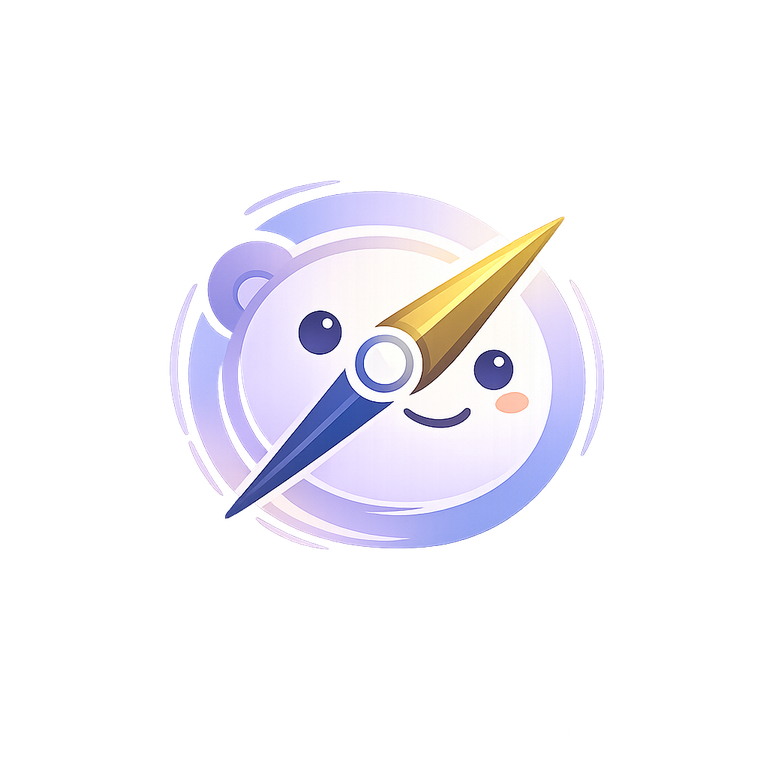
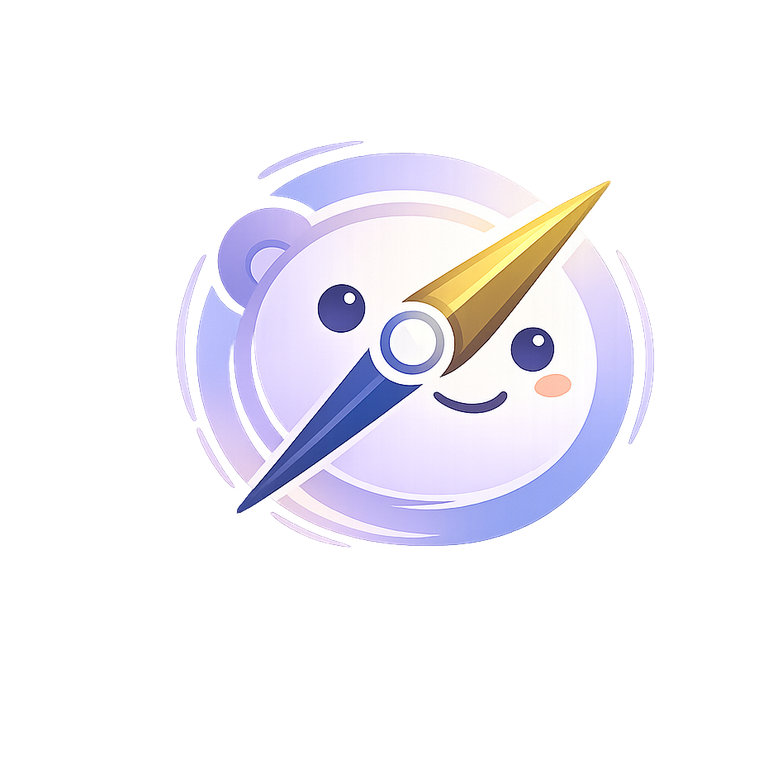
fix(frontend): enlarge mascot branding across title and chat

Changed region(s): [[0.2188, 0.1875, 0.875, 0.7188]]

diff --git a/frontend/app.py b/frontend/app.py
@@ -180,34 +180,55 @@ st.markdown(
         color: rgba(125, 122, 201, 1);
         display: flex;
         font-family: 'Source Serif 4', Georgia, serif;
-        font-size: 4rem;
+        font-size: 5.35rem;
         font-weight: 700;
-        gap: 0.34rem;
-        justify-content: center;
-        letter-spacing: 0.16em;
+        justify-content: space-between;
+        letter-spacing: 0.22em;
         text-align: center;
-        margin: 0.3rem 0 0.15rem 0;
+        margin: 0.22rem auto 0.12rem auto;
         line-height: 1;
+        max-width: 56rem;
+        padding: 0 0.3rem;
+        width: min(100%, 56rem);
     }
     .koda-title-letter {
         align-items: center;
         display: inline-flex;
         justify-content: center;
     }
+    .koda-title-dot {
+        align-items: center;
+        display: inline-flex;
+        font-size: 0.62em;
+        font-weight: 600;
+        justify-content: center;
+        opacity: 0.82;
+        transform: translateY(-0.05em);
+    }
     .koda-title-mark {
         align-items: center;
         display: inline-flex;
-        height: 3.4rem;
+        height: 4.85rem;
         justify-content: center;
-        margin: 0 0.05rem;
-        transform: translateY(0.05rem);
-        width: 3.4rem;
+        margin: 0 0.08rem;
+        transform: translateY(0.09rem);
+        width: 4.85rem;
     }
     .koda-title-mark img {
         filter: drop-shadow(0 8px 18px rgba(138, 125, 215, 0.22));
         height: 100%;
         object-fit: contain;
         width: 100%;
+    }
+    [data-testid="stChatMessage"] > div:first-child {
+        flex: 0 0 3.35rem !important;
+        width: 3.35rem !important;
+    }
+    [data-testid="stChatMessage"] > div:first-child img {
+        filter: drop-shadow(0 8px 18px rgba(138, 125, 215, 0.18));
+        height: 3.1rem !important;
+        object-fit: contain !important;
+        width: 3.1rem !important;
     }
     .koda-tagline {
         text-align: center;
@@ -1518,14 +1539,20 @@ st.markdown(
             padding-top: 0.35rem !important;
         }
         .koda-title {
-            font-size: 3rem;
+            font-size: 3.55rem;
             gap: 0.24rem;
+            justify-content: center;
             letter-spacing: 0.12em;
             margin-top: 0.15rem;
+            max-width: none;
+            width: auto;
         }
         .koda-title-mark {
-            height: 2.6rem;
-            width: 2.6rem;
+            height: 3.15rem;
+            width: 3.15rem;
+        }
+        .koda-title-dot {
+            font-size: 0.58em;
         }
         .koda-tagline {
             font-size: 0.93rem;
@@ -1549,6 +1576,14 @@ st.markdown(
         }
         .thinking-mark {
             margin: 0 auto;
+        }
+        [data-testid="stChatMessage"] > div:first-child {
+            flex-basis: 2.9rem !important;
+            width: 2.9rem !important;
+        }
+        [data-testid="stChatMessage"] > div:first-child img {
+            height: 2.72rem !important;
+            width: 2.72rem !important;
         }
         .sidebar-title {
             font-size: 1.45rem;
@@ -1653,8 +1688,12 @@ st.markdown(
             font-size: 0.9rem;
         }
         .koda-title {
-            font-size: 2.35rem;
-            letter-spacing: 0.11em;
+            font-size: 2.65rem;
+            letter-spacing: 0.09em;
+        }
+        .koda-title-mark {
+            height: 2.4rem;
+            width: 2.4rem;
         }
         .koda-tagline {
             font-size: 0.88rem;
@@ -2588,8 +2627,11 @@ st.markdown(
     (
         '<div class="koda-title">'
         '<span class="koda-title-letter">K</span>'
+        '<span class="koda-title-dot">·</span>'
         f'<span class="koda-title-mark"><img src="{html_lib.escape(KODA_MARK_URL)}" alt="O" /></span>'
+        '<span class="koda-title-dot">·</span>'
         '<span class="koda-title-letter">D</span>'
+        '<span class="koda-title-dot">·</span>'
         '<span class="koda-title-letter">A</span>'
         "</div>"
     ),
